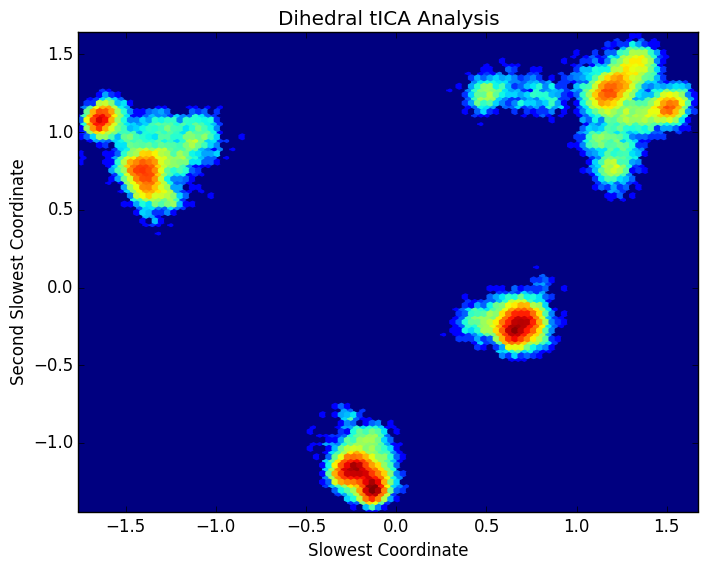
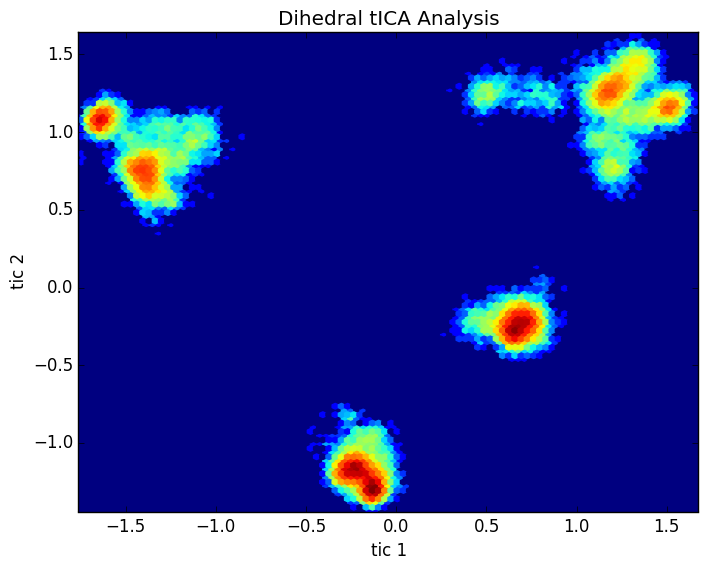
added first pyemma attempt, and eigenvalue plots

Changed region(s): [[0.0, 0.2684, 0.0311, 0.686], [0.4356, 0.9544, 0.6846, 0.9842]]

diff --git a/shanson/mek-10488/pyemma-finding4/pyemma-finding4-mek.py b/shanson/mek-10488/pyemma-finding4/pyemma-finding4-mek.py
@@ -1,0 +1,79 @@
+import matplotlib
+matplotlib.use('Agg')
+
+import pyemma
+import pyemma.coordinates as coor
+import pyemma.plots as mplt
+
+import numpy as np
+import mdtraj as md
+import matplotlib.pyplot as plt
+
+from glob import glob
+import os
+
+# Source directory for MEK simulations
+source_directory = '/cbio/jclab/projects/fah/fah-data/munged/no-solvent/10488'
+
+################################################################################
+# Load reference topology
+################################################################################
+
+print ('loading reference topology...')
+reference_pdb_filename = 'reference.pdb'
+reference_trajectory = os.path.join(source_directory, 'run0-clone0.h5')
+traj = md.load(reference_trajectory)
+traj[0].save_pdb(reference_pdb_filename)
+
+################################################################################
+# Initialize featurizer
+################################################################################
+
+print('Initializing backbone torsions featurizer...')
+featurizer = coor.featurizer(reference_pdb_filename)
+featurizer.add_chi1_torsions()
+
+################################################################################
+# Define coordinates source
+################################################################################
+
+trajectory_files = glob(os.path.join(source_directory, '*0.h5'))
+coordinates_source = coor.source(trajectory_files,featurizer)
+print("There are %d frames total in %d trajectories." % (coordinates_source.n_frames_total(), coordinates_source.number_of_trajectories()))
+
+################################################################################
+# Do tICA
+################################################################################
+
+print('tICA...')
+running_tica = coor.tica(lag=1600, dim=100)
+coor.pipeline([coordinates_source,running_tica])
+
+################################################################################
+# Make eigenvalues plot
+################################################################################
+
+plt.clf()
+eigenvalues = (running_tica.eigenvalues)**2
+
+sum_eigenvalues = np.sum(eigenvalues[0:1])
+
+print "This is the sum of the first two eigenvalues: %s." % sum_eigenvalues
+
+plt.plot(eigenvalues)
+
+plt.savefig('eigenvalues.png')
+
+################################################################################
+# Make tics plot
+################################################################################
+
+plt.clf()
+tics = running_tica.get_output()[0]
+
+plt.hexbin(tics[:,0], tics[:, 1], bins='log')
+plt.title("Dihedral tICA Analysis")
+plt.xlabel("tic1")
+plt.ylabel("tic2")
+
+plt.savefig("pyemma-finding4-mek.png", bbox_inches="tight")

diff --git a/shanson/mek-10488/msmbuilder-finding4/msmbuilder-finding4-mek.py b/shanson/mek-10488/msmbuilder-finding4/msmbuilder-finding4-mek.py
@@ -21,26 +21,43 @@ source_directory = '/cbio/jclab/projects/fah/fah-data/munged/no-solvent/10488'
 print ('loading trajectories...')
 filenames = glob(os.path.join(source_directory, '*0.h5'))
 trajectories = [md.load(filename) for filename in filenames]
-print "We are analyzing %s sims." % len(trajectories)
+print "We are analyzing %s trajectories." % len(trajectories)
 
 ################################################################################
-# Initialize dihedral and tICA features
+# initialize dihedral and tICA features
 ################################################################################
 
-print('Initializing dihedral and tICA features...')
+print('initializing dihedral and tICA features...')
 dihedrals = featurizer.DihedralFeaturizer(types=["phi", "psi", "chi1", "chi2"]).transform(trajectories)
 tica = decomposition.tICA(n_components = 4,lag_time= 1600)
 X = tica.fit_transform(dihedrals)
 
 ################################################################################
-# Plot first two tics
+# Make eigenvalues plot
 ################################################################################
+
+plt.clf()
+eigenvalues = (tica.eigenvalues_)**2
+
+sum_eigenvalues = np.sum(eigenvalues[0:1])
+
+print "This is the sum of the first two eigenvalues: %s." % sum_eigenvalues
+
+plt.plot(eigenvalues)
+
+plt.savefig('eigenvalues.png')
+
+################################################################################
+# plot first two tics
+################################################################################
+
+plt.clf()
 
 Xf = np.concatenate(X)
 plt.hexbin(Xf[:,0], Xf[:, 1], bins='log')
 plt.title("Dihedral tICA Analysis")
-plt.xlabel("Slowest Coordinate")
-plt.ylabel("Second Slowest Coordinate")
+plt.xlabel("tic 1")
+plt.ylabel("tic 2")
 
 plt.savefig("msmbuilder-finding4-mek.png", bbox_inches="tight")
 
